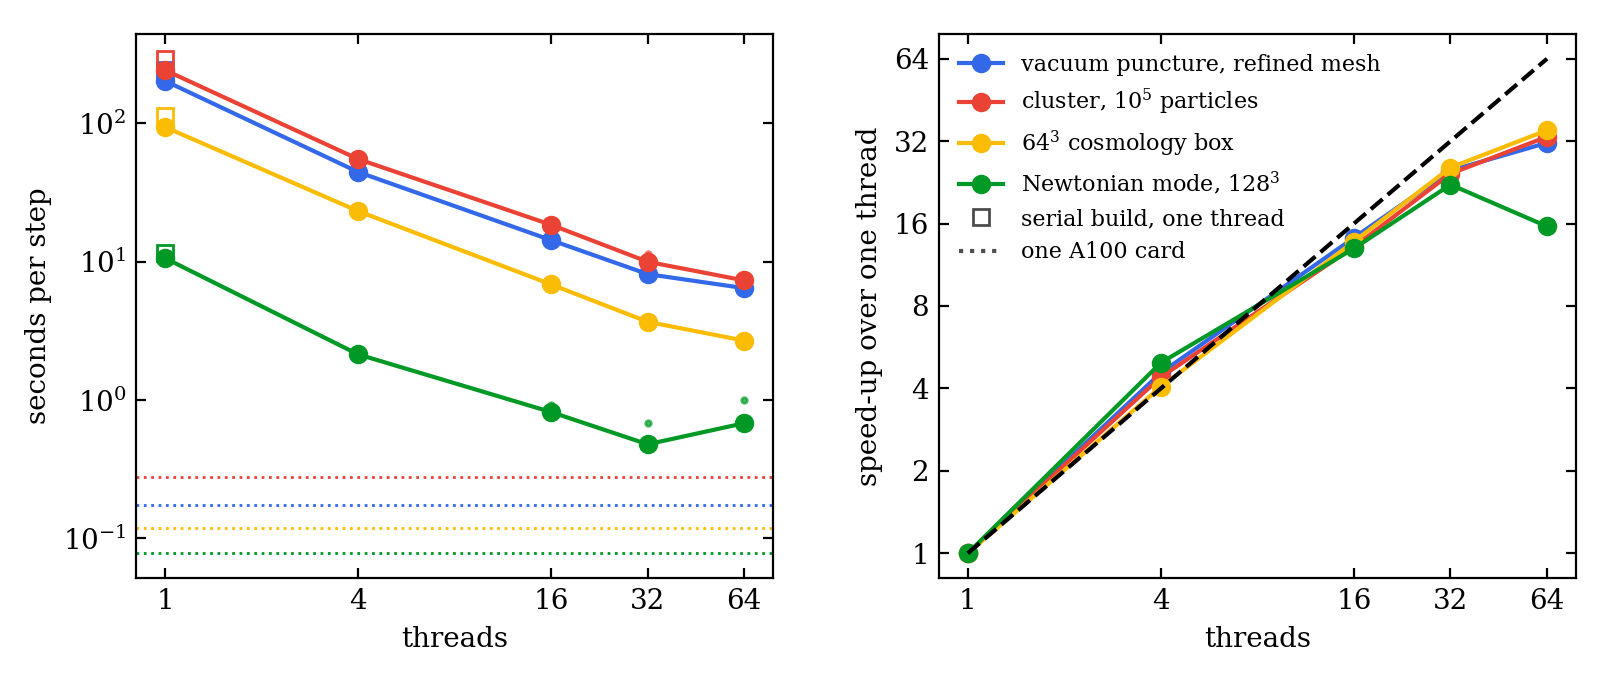
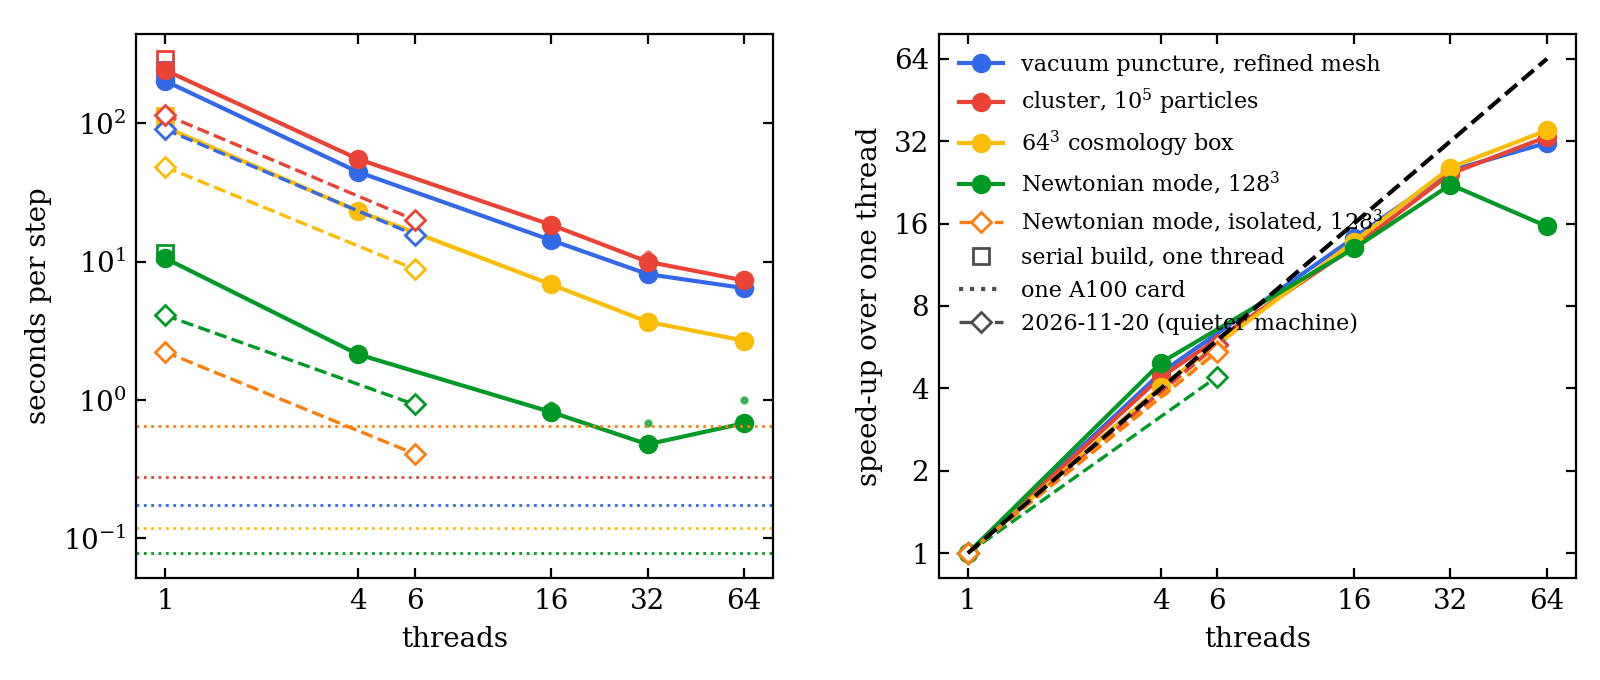
omp: scaling figure and table with the series of 2026-11-20 (one and six threads, the isolated Newtonian collapse) and the card column
Analysis run core-20261121-032240-21947be over runs core-20261120-220756-0eaaf74,
core-20261121-025720-29ecba0, core-20261121-030310-46d891c, core-20261121-031150-04a2d5b
and the card run core-20261119-144437-6718c76.

diff --git a/tracks/core/omp/scaling_table.md b/tracks/core/omp/scaling_table.md
@@ -4,3 +4,13 @@
 | cluster | 243 | 55.3 | 18.5 | 10 | 7.33 | 294 | 0.279 | 66 | 13.2 | 0.82 |
 | cosmo | 94.3 | 23.3 | 6.86 | 3.68 | 2.69 | 114 | 0.119 | 57 | 13.8 | 0.86 |
 | newton | 10.6 | 2.14 | 0.819 | 0.478 | 0.68 | 11.6 | 0.0779 | 11 | 13.0 | 0.81 |
+
+2026-11-20, load 11 to 56, best of the runs of that day (first table: 2026-11-19, load 97 to 157):
+
+| case | 1 thr | 6 thr | speed-up 6 | card | 6 thr / card |
+|---|---|---|---|---|---|
+| punc | 90.8 | 15.7 | 5.79 | 0.175 | 89.8 |
+| cluster | 116 | 20.1 | 5.77 | 0.279 | 72.1 |
+| cosmo | 48.6 | 8.86 | 5.49 | 0.119 | 74.3 |
+| newton | 4.11 | 0.929 | 4.42 | 0.0779 | 11.9 |
+| collapse | 2.23 | 0.409 | 5.45 | 0.65 | 0.6 |
